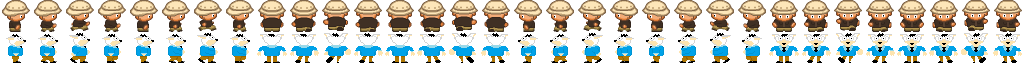
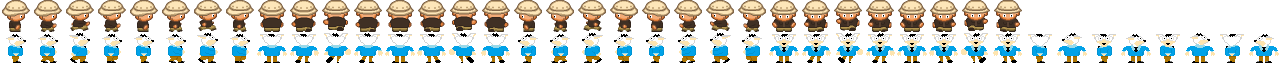
animación sí
.

diff --git a/juego/juego4.js b/juego/juego4.js
@@ -21,7 +21,15 @@ var assetsObj = {
 				"mariohugo_o0": [0, 1],
 				"mariohugo_o1": [8, 1],
 				"mariohugo_o2": [16, 1],
-				"mariohugo_o3": [24, 1]
+				"mariohugo_o3": [24, 1],
+				"mariohugo_a0": [32, 1],
+				"mariohugo_a1": [33, 1],
+				"mariohugo_a2": [34, 1],
+				"mariohugo_a3": [35, 1],
+				"mariohugo_h0": [36, 1],
+				"mariohugo_h1": [37, 1],
+				"mariohugo_h2": [38, 1],
+				"mariohugo_h3": [39, 1]
 			}
 		},
 		"metas.png": {
@@ -101,7 +109,7 @@ var subimgsAnim = 8;
 var igridInicial = 3;
 var jgridInicial = 4;
 var orientacionInicial = 0;
-var duracionAnim = 800;
+var duracionAnim = 500;
 
 function cargar_cacas() {
 	cacasRequeridas = 10000;
@@ -253,6 +261,14 @@ function go() {
 		.reel("caminando_o1", duracionAnim, subimgsAnim, indicePersonaje, subimgsAnim)
 		.reel("caminando_o2", duracionAnim, subimgsAnim*2, indicePersonaje, subimgsAnim)
 		.reel("caminando_o3", duracionAnim, subimgsAnim*3, indicePersonaje, subimgsAnim)
+		.reel("mirando_a0", duracionAnim, subimgsAnim*4, indicePersonaje, 1)
+		.reel("mirando_a1", duracionAnim, subimgsAnim*4 + 1, indicePersonaje, 1)
+		.reel("mirando_a2", duracionAnim, subimgsAnim*4 + 2, indicePersonaje, 1)
+		.reel("mirando_a3", duracionAnim, subimgsAnim*4 + 3, indicePersonaje, 1)
+		.reel("mirando_h0", duracionAnim, subimgsAnim*4 + 4, indicePersonaje, 1)
+		.reel("mirando_h1", duracionAnim, subimgsAnim*4 + 5, indicePersonaje, 1)
+		.reel("mirando_h2", duracionAnim, subimgsAnim*4 + 6, indicePersonaje, 1)
+		.reel("mirando_h3", duracionAnim, subimgsAnim*4 + 7, indicePersonaje, 1)
 		.bind("setear", function(atributos) {
 			this.attr(atributos);
 			this.attr({
@@ -299,6 +315,17 @@ function go() {
 					} else {
 						this.orientacion = this.orientacionDespues;
 						this.estado = "descansando";
+					}
+					break;
+				case "mirando":
+					if (tAnim < 0.5) {
+						
+					} else if (tAnim < 1) {
+						if (this.sentidoMirada != 0)
+							this.animate("mirando_" + (this.sentidoMirada > 0 ? "a" : "h") +
+								this.orientacion).pauseAnimation();
+					} else {
+						this.estado = "listo";
 					}
 					break;
 				case "descansando":
@@ -387,7 +414,10 @@ function girar_derecha() {
 	personaje.trigger("girar", -1);
 }
 
-function veo_caca_en_orientacion(orientacion) {
+function veo_caca_en_orientacion(orientacion, sentido) {
+	personaje.inicioAnimacion = Date.now();
+	personaje.sentidoMirada = sentido;
+	personaje.estado = "mirando";
 	var igrid = personaje.igrid, jgrid = personaje.jgrid;
 	while (!simbolosMurallasAltas.has(simbolo_en(igrid, jgrid))) {
 		if (indiceCacaEn[igrid][jgrid] != -1)
@@ -399,15 +429,15 @@ function veo_caca_en_orientacion(orientacion) {
 }
 
 function veo_caca_al_frente() {
-	return veo_caca_en_orientacion(personaje.orientacion);
+	return veo_caca_en_orientacion(personaje.orientacion, 0);
 }
 
 function veo_caca_izquierda() {
-	return veo_caca_en_orientacion((personaje.orientacion + 1)%4);
+	return veo_caca_en_orientacion((personaje.orientacion + 1)%4, 1);
 }
 
 function veo_caca_derecha() {
-	return veo_caca_en_orientacion((personaje.orientacion + 3)%4);
+	return veo_caca_en_orientacion((personaje.orientacion + 3)%4, -1);
 }
 
 function no_mas_caca() {
